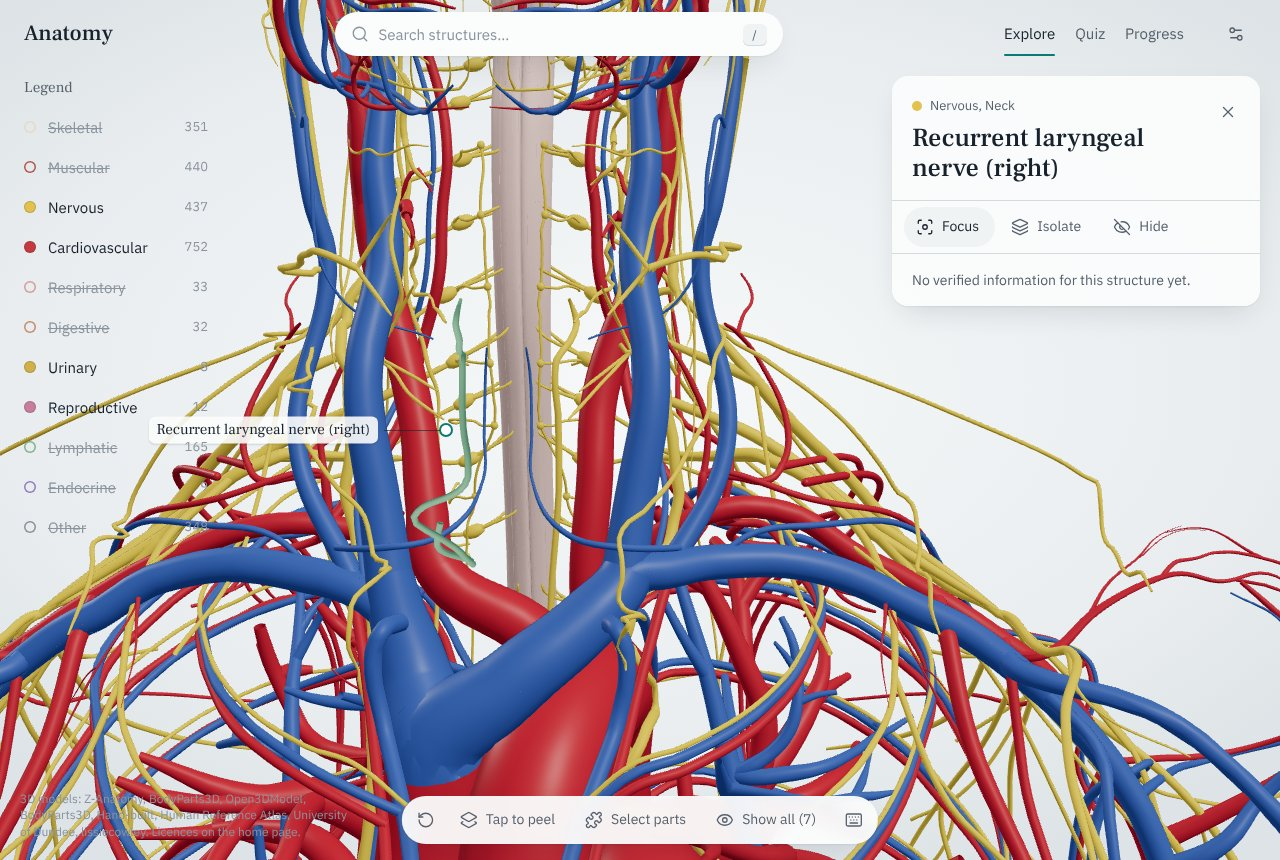
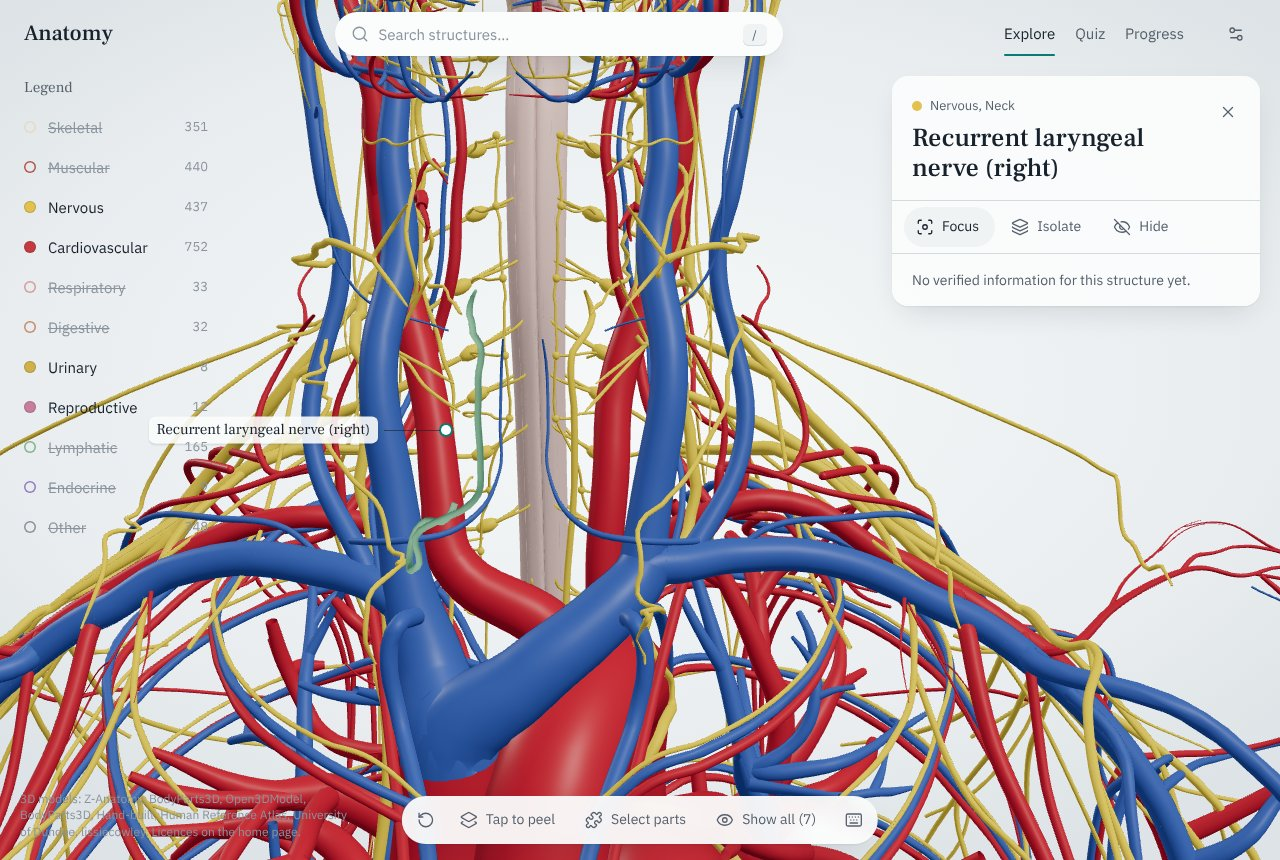
Fix the right recurrent laryngeal nerve's hook and the anal canal's start
Review of priority 1 (a second session measuring the shipped paths):

- The right recurrent laryngeal nerve passed round the subclavian artery's
  medial end beside the brachiocephalic bifurcation, with artery tissue
  above and below it. It now leaves the vagus above the artery and hooks
  round its first part 6 mm lateral to the bifurcation (in front, flat
  under the whole artery, behind), then medially behind the vagus to the
  groove. The model's lung apex rises round the artery (no cervical
  pleura): the hook may sink up to 5 mm into it, reported; it is relaxed
  with 3 mm control points so the tight hook keeps its shape. The artery
  now lies directly above all of its lowest 15 % of points and below none
  (as for the left nerve under the arch), 2.3 mm above the lowest point.
- The anal canal began on the sphincter's axis 3 mm short of the rectum.
  It now starts inside the rectum's lower end and bends back into the
  axis; the internal sphincter still ends 14.5 mm below the ring's centre.

Rebuilt with the unfinished priority-2 structures skipped: only these
three rows of the clearance report changed; audit unchanged; review shots
retaken (the anal shots now hide the muscles so the rectum shows).

Claude-Session: https://claude.ai/code/session_01LicuwzXatEa4BRLVjStcgb

diff --git a/e2e/handmade-shots.ts b/e2e/handmade-shots.ts
@@ -49,6 +49,7 @@ const CHEST: System[] = [
 ];
 const BELLY: System[] = ["Muscular", "Skeletal", "Respiratory", "Other"];
 const PERINEUM: System[] = ["Digestive", "Urinary", "Other"];
+const ANAL: System[] = ["Muscular", "Urinary", "Reproductive", "Other"];
 
 const SHOTS_LIST: Shot[] = [
   { id: "phrenic-nerve-left", hide: CHEST },
@@ -112,12 +113,9 @@ const SHOTS_LIST: Shot[] = [
     tilt: -150,
     isolate: true,
   },
-  { id: "anal-canal", hide: ["Urinary", "Reproductive", "Other"], turn: 260 },
-  {
-    id: "internal-anal-sphincter",
-    hide: ["Urinary", "Reproductive", "Other"],
-    turn: 260,
-  },
+  // Muscles hidden: the gluteal muscles would hide the rectum it continues.
+  { id: "anal-canal", hide: ANAL, turn: 260 },
+  { id: "internal-anal-sphincter", hide: ANAL, turn: 260 },
   // Female body
   {
     id: "perineal-body",

diff --git a/scripts/anatomy/handmade/structures_neck.py b/scripts/anatomy/handmade/structures_neck.py
@@ -334,8 +334,10 @@ def laryngeal_entry(b: Builder, side: str) -> list[np.ndarray]:
 
 def recurrent_laryngeal(b: Builder, side: str) -> None:
     """
-    Right: leaves the vagus at the right subclavian artery, hooks below and
-    behind the artery, ascends in the right tracheo-oesophageal groove.
+    Right: leaves the vagus at the right subclavian artery, hooks round the
+    artery's first part — in front, below, behind — lateral to the
+    brachiocephalic bifurcation, ascends in the right tracheo-oesophageal
+    groove.
     Left: leaves the vagus at the aortic arch, hooks below the arch beside
     the ligamentum arteriosum (its node marks it; the ligament itself is not
     modelled) and behind it, ascends in the left groove. Both end behind the
@@ -343,9 +345,9 @@ def recurrent_laryngeal(b: Builder, side: str) -> None:
 
     Model quirks (Z-Anatomy): the left vagus runs *through* the aortic arch
     mesh (z 1372–1396 mm), so the left nerve starts where the vagus leaves
-    the arch's underside; the right vagus lies medial to the subclavian
-    artery's first part, so the right nerve leaves it laterally, in front of
-    the artery. The arch, trachea and oesophagus overlap at z 1375–1395 mm,
+    the arch's underside; the right vagus lies just behind the subclavian
+    artery's first part (not in front of it), so the right nerve leaves it
+    above the artery and comes round the artery's front from there. The arch, trachea and oesophagus overlap at z 1375–1395 mm,
     leaving no free groove there (the arch's wall lies on the trachea's left
     side): the left nerve may sink into the oesophagus, tracheal or left
     main bronchus wall, at most 3 mm, reported. The
@@ -361,23 +363,46 @@ def recurrent_laryngeal(b: Builder, side: str) -> None:
     end_allow = (rf"Posterior crico-arytenoid muscle\.{side}", rf"Inferior pharyngeal constrictor\.{side}",
                  "Cricoid cartilage", r"Crico-arytenoid joint.*", "Anterior longitudinal ligament",
                  rf"Longus colli muscle\.{side}", r"Intervertebral disc C.*")
-    allow = Allow(start=(vagus,), end=end_allow, zone=0.010, end_zone=0.010, touch=(NODES,),
+    # (On the right it starts against the vagus and passes back behind it:
+    # may lie against it.)
+    allow = Allow(start=(vagus,), end=end_allow, zone=0.010, end_zone=0.010,
+                  touch=(NODES,) if side == "l" else (NODES, vagus),
                   squeeze=("Oesophagus", "Trachea", "Left main bronchus", "Thyroid gland") if side == "l"
-                  else ("Oesophagus", "Thyroid gland"), depth=(3.0 if side == "l" else 2.5) * MM)
+                  # (right: the lung apex and its apical vessels, which reach the
+                  # apex's surface in the model, lie directly under and behind
+                  # the subclavian artery; the hook runs over them)
+                  else ("Oesophagus", "Thyroid gland", LUNG, r"Apical (vein|segmental artery) of right lung"),
+                  depth=(3.0 if side == "l" else 5.0) * MM)
     if side == "r":
-        z0 = 1.421
+        # The model's right vagus lies just behind the subclavian artery's
+        # first part and reaches above it: the nerve leaves it above the
+        # artery (z 1.424), goes laterally and forward round the artery's
+        # front 6 mm lateral to the brachiocephalic bifurcation (the right
+        # common carotid's lowest point), runs flat under it from its front to
+        # its back edge (radius + 1.5 mm below its lowest point within ±4 mm —
+        # the underside slopes down medially), up behind it, and back medially
+        # behind the vagus to the tracheo-oesophageal groove. The model's lung
+        # apex rises round the artery (no cervical pleura): the hook lies in
+        # the apex's surface, at most 5 mm deep (as the phrenic nerve's course
+        # over the heart); further laterally the apex fills the space entirely.
+        z0 = 1.424
         c, t, rv = nerve_axis(b, vagus, z0, side)
         p0, p1 = branch_start(c, t, rv, (sx, -1, 0))
         sca = "Right subclavian artery"
-        # Below the artery: its lowest point under x = vagus x − 8 mm, 3 mm lower.
-        x_h = c[0] - sx * 8 * MM
-        A = b.body.V(sca)
-        A = A[np.abs(A[:, 0] - x_h) < 3 * MM]
-        front, back, bottom = A[:, 1].min(), A[:, 1].max(), A[:, 2].min()
-        hook = [np.array([x_h, front - 2 * MM, bottom - 1.0 * MM]),
-                np.array([x_h, (front + back) / 2, bottom - RLN_R - 2.0 * MM]),
-                np.array([x_h + sx * 1 * MM, back + RLN_R + 1.5 * MM, bottom + 2 * MM]),
-                np.array([c[0] + sx * 5 * MM, back + 5 * MM, z0 + 2 * MM])]
+        bif = b.body.extreme("Right common carotid artery", (0, 0, -1))
+        x_h = bif[0] + sx * 6 * MM
+        A0 = b.body.V(sca)
+        A = A0[np.abs(A0[:, 0] - x_h) < 2 * MM]
+        front, back, top = A[:, 1].min(), A[:, 1].max(), A[:, 2].max()
+        bottom = A0[np.abs(A0[:, 0] - x_h) < 4 * MM][:, 2].min()
+        z_b = bottom - RLN_R - 1.5 * MM
+        mid_z = (top + A[:, 2].min()) / 2
+        flat = [np.array([x_h, y, z_b]) for y in np.arange(front - 2 * MM, back + 2 * MM + 1e-9, 2.5 * MM)]
+        hook = ([np.array([x_h - sx * 1 * MM, front - RLN_R - 1.5 * MM, mid_z + 1 * MM]),
+                 np.array([x_h, front - RLN_R - 1.5 * MM, z_b + 1.5 * MM])] + flat +
+                [np.array([x_h, back + RLN_R + 1.5 * MM, z_b + 1.5 * MM]),
+                 np.array([x_h + sx * 1 * MM, back + RLN_R + 1.5 * MM, mid_z]),
+                 np.array([c[0] - sx * 3 * MM, c[1] + rv + RLN_R + 2.0 * MM, top + 4 * MM])])
     else:
         # Where the vagus leaves the arch's underside (first slab below it).
         z0 = 1.366
@@ -391,7 +416,9 @@ def recurrent_laryngeal(b: Builder, side: str) -> None:
                 np.array([node[0] - sx * 8 * MM, node[1] + 16 * MM, under]),
                 np.array([c[0] - sx * 6 * MM, 14 * MM, 1.385])]
     ctrl = [p0, p1] + hook + laryngeal_entry(b, side)
-    b.vessel(part, "nerve", ctrl, RLN_R, allow, end_taper=0.005)
+    # The right hook is tight (≈ 10 mm round an artery 6–10 mm thick): relaxed
+    # with control points every 3 mm so it keeps its shape.
+    b.vessel(part, "nerve", ctrl, RLN_R, allow, end_taper=0.005, spacing=0.006 if side == "l" else 0.003)
     b.add(part)
 
 

diff --git a/scripts/anatomy/handmade/structures_pelvis.py b/scripts/anatomy/handmade/structures_pelvis.py
@@ -294,11 +294,13 @@ def anal_canal(b: Builder) -> None:
     Anal canal: from the anorectal junction (the lower end of Z-Anatomy's
     "Sigmoid colon", shown as the Rectum) down and back to the anus, inside
     the external anal sphincter. The model's sphincter is a ring tilted 45°
-    whose axis points down and back; the canal follows that axis through
-    the ring's centre (starting 8 mm above it, where it meets the rectum's
-    lower end, and 30 mm long). The ring is small (inner radius ≈ 6 mm), so
+    whose axis points down and back; the canal starts from the rectum's lower
+    end (which lies 8 mm in front of that axis, just above the ring), bends
+    back into the axis and follows it through the ring's centre (≈ 35 mm
+    long). The ring is small (inner radius ≈ 6 mm), so
     the canal is ≈ 11 mm wide. Internal anal sphincter: a 2.5 mm cuff, the
-    thickened circular muscle, round the canal's upper three quarters, inside
+    thickened circular muscle, round the canal down to 14.5 mm below the ring's
+    centre (≈ 1 cm above the anus), inside
     the external sphincter (pressing up to 2 mm into it, reported).
     """
     E = np.vstack([b.body.V("External anal sphincter.l"), b.body.V("External anal sphincter.r")])
@@ -315,16 +317,28 @@ def anal_canal(b: Builder) -> None:
     # sphincter's cuff lies against the external one, sinking at most 2 mm.
     r_canal = min(7.5 * MM, inner - 1.0 * MM)
     print(f"anal canal: sphincter ring inner radius {inner * 1000:.1f} mm → canal Ø {2 * r_canal * 1000:.1f} mm")
-    top, bottom = C - 8 * MM * d, C + 22 * MM * d
-    path = catmull_rom([top, C, bottom], step=0.002)
+    # Anorectal junction: the canal starts from the rectum's lower end — its
+    # wall's nearest point to the canal's axis 8 mm above the ring (on the
+    # midline), 1 mm into the wall and 2.5 mm up so the two overlap and its
+    # start cap stays inside the rectum — and bends back into the
+    # ring's axis 3 mm above its centre (the anorectal flexure); 22 mm below
+    # the centre it ends at the anus.
+    loc, normal, _ = b.body.nearest("Sigmoid colon", C - 8 * MM * d)
+    junction = np.array([0.0, loc[1], loc[2] + 2.5 * MM]) - unit(normal) * 1.0 * MM  # its start cap inside the rectum
+    bottom = C + 22 * MM * d
+    path = catmull_rom([junction, C - 3 * MM * d, C, bottom], step=0.002)
     floor = FLOOR + (EAS, NODES, r"Gluteus maximus muscle\..", r"Anococcygeal .*")
     canal = Part("Anal canal", "digestive", "digestive", "pelvis", family=("Internal anal sphincter",))
     from shapes import tube, taper  # noqa: PLC0415
 
     b.solid(canal, "canal", tube(path, taper(path, r_canal, end=0.006, tip=0.7), 20),
-            Allow(start=("Sigmoid colon",), touch=floor, zone=0.010))
+            # (where it bends out of the rectum it crosses the external
+            # sphincter's front rim: may press into it, at most 1.5 mm)
+            Allow(start=("Sigmoid colon",), touch=floor, zone=0.010, squeeze=(EAS,), depth=1.5 * MM))
     b.add(canal)
-    upper = path[: int(len(path) * 0.75)]
+    # The internal sphincter: from the junction to 14.5 mm below the ring's
+    # centre (it ends about 1 cm above the anus).
+    upper = path[(path - C) @ d <= 14.5 * MM]
     ias = Part("Internal anal sphincter", "muscular", "muscle", "pelvis", family=("Anal canal",))
     b.solid(ias, "cuff", sleeve(upper, r_canal + 0.1 * MM, r_canal + ias_t, segments=24),
             Allow(start=("Sigmoid colon",), touch=floor, zone=0.010, squeeze=(EAS, r"Pubo-analis muscle\.."),

diff --git a/docs/CONTENT_REVIEW.md b/docs/CONTENT_REVIEW.md
@@ -257,18 +257,18 @@ Built by hand (`scripts/anatomy/handmade/`, `docs/DECISIONS.md` →
 model** — please check the course of each against her atlas. English names
 only (no Hebrew added), all `verified: false`.
 
-| Name (as in the app)                                                                                               | Course to check                                                                                                                                                                                                                               |
-| ------------------------------------------------------------------------------------------------------------------ | --------------------------------------------------------------------------------------------------------------------------------------------------------------------------------------------------------------------------------------------- |
-| Phrenic nerve (left, right)                                                                                        | C3–C5 roots joining at the lateral border of scalenus anterior; on the muscle; between subclavian artery and vein; right beside the brachiocephalic vein, SVC, right atrium; left over the arch and the left ventricle; ends on the diaphragm |
-| Left / Right recurrent laryngeal nerve                                                                             | right hooks under and behind the subclavian artery, left under the arch beside the ligamentum arteriosum; up the tracheo-oesophageal groove to the posterior crico-arytenoid                                                                  |
-| Superior laryngeal nerve; internal / external branch of superior laryngeal nerve                                   | from the vagus high in the neck, medial to the carotids; internal branch through the thyrohyoid membrane; external branch on the inferior constrictor to cricothyroid                                                                         |
-| Ansa cervicalis (superior root, inferior root, loop, muscular branches)                                            | superior root from the hypoglossal on the carotid sheath; inferior root round the IJV's lateral side; loop at the cricoid level; twigs to the infrahyoid muscles                                                                              |
-| Lesser occipital, great auricular, transverse cervical nerves; supraclavicular nerves                              | emerging together at the midpoint of the SCM's posterior border; the lobe of the ear is approximated (the model has no auricle)                                                                                                               |
-| Superior thyroid artery; superior laryngeal artery                                                                 | first branch of the external carotid to the thyroid's upper pole (anterior and posterior glandular branches); laryngeal artery with the internal laryngeal nerve                                                                              |
-| Thoracic duct; cisterna chyli                                                                                      | cisterna at L1–L2 (smaller than typical: no room in the model); duct through the aortic hiatus, between aorta and azygos, crossing left at T5–T6, arching at C7 to the left venous angle                                                      |
-| Cystic artery                                                                                                      | from the hepatic artery beside the gallbladder neck (the model has no separate right hepatic artery); superficial and deep branches                                                                                                           |
-| Short gastric arteries                                                                                             | four vessels from the splenic hilum to the fundus                                                                                                                                                                                             |
-| Perineal body; superficial / deep transverse perineal muscle                                                       | node 12 mm in front of the external anal sphincter; bands from the ischial tuberosity / ischiopubic ramus to it                                                                                                                               |
-| External urethral sphincter (male ring; female: sphincter urethrae, compressor urethrae, urethrovaginal sphincter) | male round the membranous urethra; female round the urethra's course (the female urethra itself is not built yet)                                                                                                                             |
-| Bulbospongiosus (male one muscle; female left and right); ischiocavernosus (left, right)                           | male from the perineal body over the bulb, and along the crura from the ischial tuberosities; female where the vestibular bulbs and the clitoris' crura belong (not built yet)                                                                |
-| Anal canal; internal anal sphincter                                                                                | along the external sphincter's axis from the rectum's lower end; narrower than typical (the model's sphincter ring is small)                                                                                                                  |
+| Name (as in the app)                                                                                               | Course to check                                                                                                                                                                                                                                     |
+| ------------------------------------------------------------------------------------------------------------------ | --------------------------------------------------------------------------------------------------------------------------------------------------------------------------------------------------------------------------------------------------- |
+| Phrenic nerve (left, right)                                                                                        | C3–C5 roots joining at the lateral border of scalenus anterior; on the muscle; between subclavian artery and vein; right beside the brachiocephalic vein, SVC, right atrium; left over the arch and the left ventricle; ends on the diaphragm       |
+| Left / Right recurrent laryngeal nerve                                                                             | right hooks round the subclavian artery's first part (in front, under, behind) lateral to the brachiocephalic bifurcation, left under the arch beside the ligamentum arteriosum; up the tracheo-oesophageal groove to the posterior crico-arytenoid |
+| Superior laryngeal nerve; internal / external branch of superior laryngeal nerve                                   | from the vagus high in the neck, medial to the carotids; internal branch through the thyrohyoid membrane; external branch on the inferior constrictor to cricothyroid                                                                               |
+| Ansa cervicalis (superior root, inferior root, loop, muscular branches)                                            | superior root from the hypoglossal on the carotid sheath; inferior root round the IJV's lateral side; loop at the cricoid level; twigs to the infrahyoid muscles                                                                                    |
+| Lesser occipital, great auricular, transverse cervical nerves; supraclavicular nerves                              | emerging together at the midpoint of the SCM's posterior border; the lobe of the ear is approximated (the model has no auricle)                                                                                                                     |
+| Superior thyroid artery; superior laryngeal artery                                                                 | first branch of the external carotid to the thyroid's upper pole (anterior and posterior glandular branches); laryngeal artery with the internal laryngeal nerve                                                                                    |
+| Thoracic duct; cisterna chyli                                                                                      | cisterna at L1–L2 (smaller than typical: no room in the model); duct through the aortic hiatus, between aorta and azygos, crossing left at T5–T6, arching at C7 to the left venous angle                                                            |
+| Cystic artery                                                                                                      | from the hepatic artery beside the gallbladder neck (the model has no separate right hepatic artery); superficial and deep branches                                                                                                                 |
+| Short gastric arteries                                                                                             | four vessels from the splenic hilum to the fundus                                                                                                                                                                                                   |
+| Perineal body; superficial / deep transverse perineal muscle                                                       | node 12 mm in front of the external anal sphincter; bands from the ischial tuberosity / ischiopubic ramus to it                                                                                                                                     |
+| External urethral sphincter (male ring; female: sphincter urethrae, compressor urethrae, urethrovaginal sphincter) | male round the membranous urethra; female round the urethra's course (the female urethra itself is not built yet)                                                                                                                                   |
+| Bulbospongiosus (male one muscle; female left and right); ischiocavernosus (left, right)                           | male from the perineal body over the bulb, and along the crura from the ischial tuberosities; female where the vestibular bulbs and the clitoris' crura belong (not built yet)                                                                      |
+| Anal canal; internal anal sphincter                                                                                | along the external sphincter's axis from the rectum's lower end; narrower than typical (the model's sphincter ring is small)                                                                                                                        |

diff --git a/scripts/anatomy/handmade/README.md b/scripts/anatomy/handmade/README.md
@@ -122,6 +122,9 @@ decoded body in `out/decoded/body-cache.npz` (rebuilt when a GLB is newer).
   — only where the model leaves no room:
   - phrenic nerve into the lungs (≤ 5 mm): the model's lungs lie directly on
     the heart, with no pleura or pericardium between;
+  - right recurrent laryngeal nerve into the right lung apex and its apical
+    vessels (≤ 5 mm): the apex rises round the subclavian artery (no
+    cervical pleura), so the hook under the artery lies in its surface;
   - left recurrent laryngeal nerve into the trachea / oesophagus / left main
     bronchus wall (≤ 3 mm) and both into the thyroid lobe's back (≤ 2.5 mm):
     the arch lies on the trachea's left side;
@@ -133,7 +136,8 @@ decoded body in `out/decoded/body-cache.npz` (rebuilt when a GLB is newer).
   - cervical plexus branches through the platysma (≤ 1.5 mm); ansa into the
     SCM (≤ 1.5 mm, the IJV passes through it here);
   - male external urethral sphincter into the prostate apex / bulb / crura
-    (≤ 2 mm); internal anal sphincter into the external one (≤ 2 mm);
+    (≤ 2 mm); internal anal sphincter into the external one (≤ 2 mm), the
+    anal canal into its front rim where it bends out of the rectum (≤ 1.5 mm);
     male bulbospongiosus into the crura where they abut the bulb (≤ 1 mm).
 
 ## Model quirks met (Z-Anatomy and the fitted female organs)
@@ -141,9 +145,20 @@ decoded body in `out/decoded/body-cache.npz` (rebuilt when a GLB is newer).
 - The left vagus runs **through** the aortic arch (z 1372–1396 mm): the left
   recurrent nerve starts where it leaves the arch's underside and hooks
   under the arch beside the ligamentum arteriosum node.
-- The right vagus lies medial to the subclavian artery's first part: the
-  right recurrent nerve leaves it laterally and hooks under and behind the
-  artery.
+- The right vagus lies just **behind** the subclavian artery's first part
+  and reaches above it (textbook: it crosses in front): the right recurrent
+  nerve leaves it above the artery and hooks round it — in front, under,
+  behind — 6 mm lateral to the brachiocephalic bifurcation, flat under the
+  whole artery (radius + 1.5 mm below its lowest point within ± 4 mm: the
+  underside slopes down medially), then medially behind the vagus to the
+  groove. Further laterally the lung apex fills the space under the artery.
+  Fixed 2026-10-07 after review: it used to pass round the artery's medial
+  end beside the bifurcation, with artery above and below it. Check: the
+  artery lies directly above all of its lowest 15 % of points and below none
+  (as for the left nerve under the arch); its underside is 2.3 mm above the
+  lowest point.
+- Its tight hook (≈ 10 mm) is relaxed with control points every 3 mm (6 mm
+  elsewhere), so the relaxation keeps its shape.
 - The common carotid encloses the front of scalenus anterior at z 1470–1490:
   the phrenic nerve's first 2 cm run just lateral to the muscle.
 - The superior thyroid vein starts far laterally: the artery takes the
@@ -153,7 +168,12 @@ decoded body in `out/decoded/body-cache.npz` (rebuilt when a GLB is newer).
   spine, so the cisterna chyli is 20 × 5 × 4 mm (textbook 8 × 6 mm across).
 - The external anal sphincter is a small ring (inner radius ≈ 6 mm) tilted
   45°: the anal canal follows its axis and is ≈ 11 mm wide (textbook
-  15–20 mm).
+  15–20 mm). The rectum's ("Sigmoid colon") lower end lies 8 mm in front of
+  that axis, just above the ring: the canal starts inside the rectum's lower
+  end (1 mm into its wall and 2.5 mm up, so its start cap stays inside) and
+  bends back into the axis (the anorectal flexure). Fixed
+  2026-10-07 after review: it used to start on the axis, 3 mm short of the
+  rectum, leaving a visible gap.
 - The Atlas vagina sits far back in our male pelvis: the female urethra's
   course (used for the female sphincter; the urethra itself is item 14) is
   nearly vertical in front of it.

diff --git a/docs/STATUS.md b/docs/STATUS.md
@@ -545,3 +545,25 @@ All verified by `npm run e2e:smoke` against a production build.
   course term to the maxillary nerve, or split that mesh). Builder:
   `--skip <regex>` leaves structures out but still exports (the priority-1
   GLB is rebuilt with the priority-2 ones skipped until they are ready).
+- **2026-10-07 · review fixes to priority 1** (a second session measured
+  the shipped paths against the brief): (1) the **right recurrent laryngeal
+  nerve** passed round the subclavian artery's medial end beside the
+  brachiocephalic bifurcation, with artery tissue above and below it; it
+  now leaves the vagus above the artery and hooks round its first part 6 mm
+  lateral to the bifurcation — in front, flat under the whole artery,
+  behind — then medially behind the vagus to the groove (may sink ≤ 5 mm
+  into the lung apex and its apical vessels, which rise round the artery
+  with no cervical pleura; relaxed with 3 mm control points to keep the
+  tight hook). Check (the reviewer's): the artery lies directly above all of
+  its lowest 15 % of points and below none, its underside 2.3 mm above the
+  lowest point; the left nerve passes the same check under the arch. (2) The
+  **anal canal** started on the sphincter's axis 3 mm short of the rectum;
+  it now starts inside the rectum's lower end (8 mm in front of that axis;
+  1 mm into the wall and 2.5 mm up, so its start cap stays inside) and
+  bends back into it (may press ≤ 1.5 mm into the external
+  sphincter's front rim); the internal sphincter ends 14.5 mm below the
+  ring's centre as before. Rebuilt with `--skip` for the unfinished
+  priority-2 structures: only these three rows of the clearance report
+  changed. Audit: unchanged (only the supraclavicular finding). Review shots
+  retaken for both. `summaryNotes.json` untouched (the other session
+  regenerates it).
